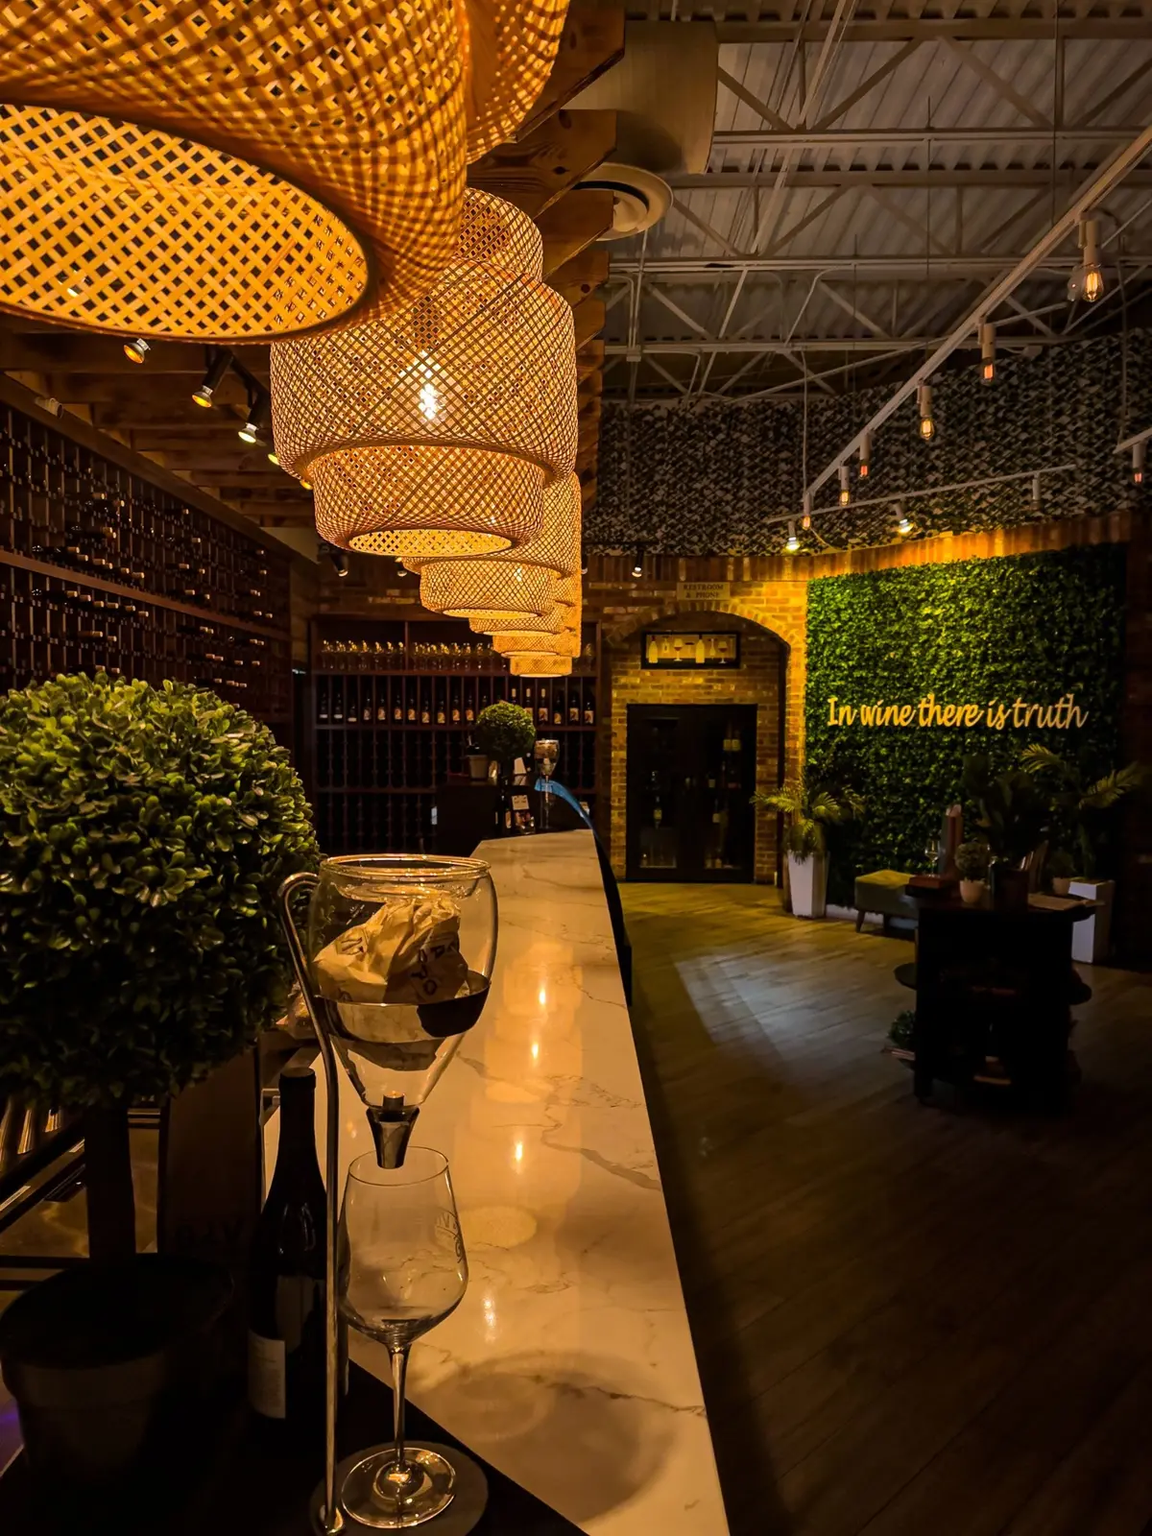
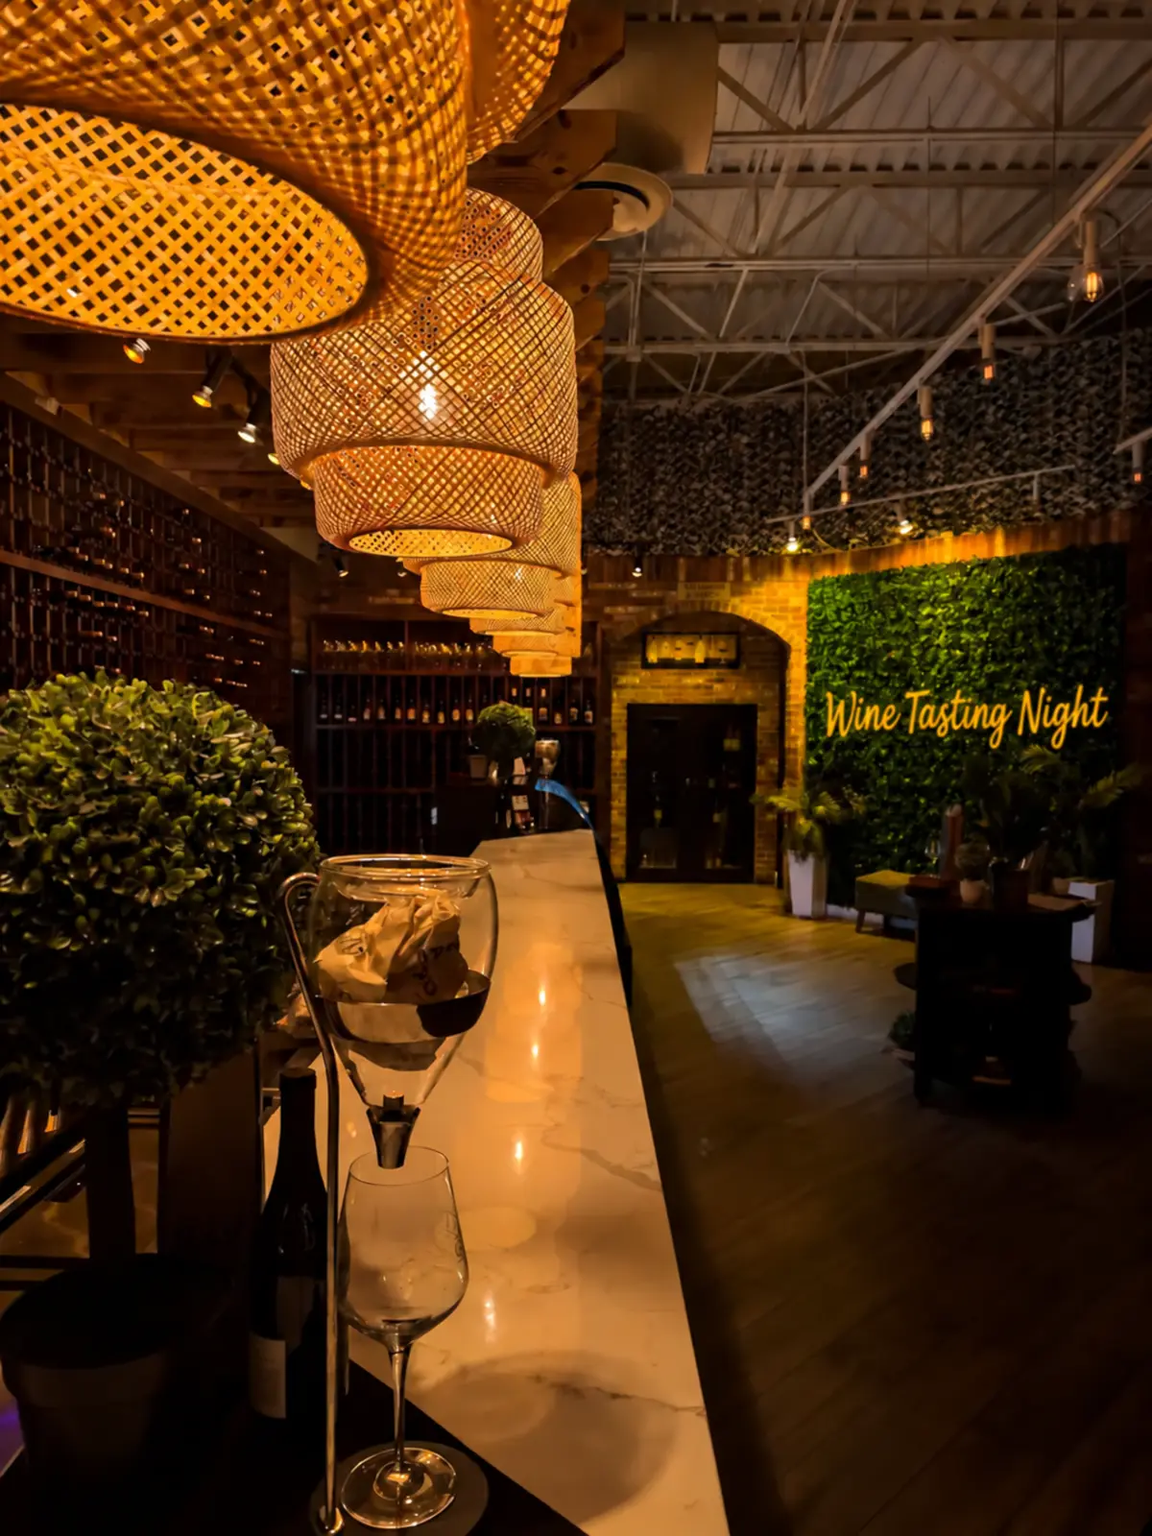
Add files via upload

diff --git a/index.html b/index.html
@@ -22,9 +22,13 @@
     html { scroll-behavior: smooth; }
     body { margin: 0; background: var(--cream); color: var(--green); font-family: var(--body); font-size: 17px; line-height: 1.7; }
     img { max-width: 100%; }
-    .brand-header { width: min(760px, calc(100% - 32px)); margin: 0 auto; padding: 24px 0 12px; text-align: center; }
+    .brand-header { position: relative; width: min(760px, calc(100% - 32px)); margin: 0 auto; padding: 24px 0 12px; text-align: center; }
     .logo { display: block; width: min(290px, 72vw); height: auto; margin: 0 auto; }
     .brand-description { margin: 6px 0 0; font-size: 12px; font-weight: 600; letter-spacing: .22em; text-transform: uppercase; }
+    .language-switcher { position: absolute; top: 30px; right: 0; display: flex; align-items: center; gap: 7px; font-size: 11px; font-weight: 600; letter-spacing: .12em; }
+    .language-switcher span { opacity: .45; }
+    .language-button { padding: 3px 1px; border: 0; border-bottom: 1px solid transparent; background: transparent; color: var(--green); font: inherit; cursor: pointer; opacity: .48; }
+    .language-button:hover, .language-button:focus-visible, .language-button.is-active { border-bottom-color: var(--green); opacity: 1; }
     .divider { display: flex; align-items: center; gap: 12px; width: min(760px, calc(100% - 40px)); margin: 0 auto; }
     .divider::before, .divider::after { content: ""; flex: 1; height: 1px; background: var(--green); opacity: .72; }
     .divider span { width: 8px; height: 8px; background: var(--green); transform: rotate(45deg); }
@@ -34,7 +38,7 @@
     .body-paragraph { max-width: 630px; margin: 0 0 19px; color: var(--green); font-family: var(--body); font-size: 1rem; font-weight: 400; line-height: 1.7; }
     .portrait-frame { position: relative; min-height: 100%; margin: 0; }
     .portrait-frame::after { content: ""; position: absolute; inset: 20px 0 0 20px; z-index: -1; border: 1px solid var(--green); }
-    .portrait { position: absolute; inset: 0 16px 16px 0; display: block; width: calc(100% - 16px); height: calc(100% - 16px); object-fit: cover; object-position: 48% center; }
+    .portrait { position: absolute; inset: 0 16px 16px 0; display: block; width: calc(100% - 16px); height: calc(100% - 16px); object-fit: cover; object-position: 28% center; }
     .portrait-caption { position: absolute; right: 16px; bottom: -24px; margin: 0; color: var(--green); font-size: 11px; font-weight: 600; letter-spacing: .08em; line-height: 1.4; text-align: right; text-transform: uppercase; }
     .motto { width: min(820px, 100%); margin: 0 auto; padding: 25px 20px; border-top: 1px solid var(--green); border-bottom: 1px solid var(--green); font-family: var(--heading); font-size: clamp(30px, 4vw, 45px); font-weight: 700; line-height: 1.15; text-align: center; }
     .services { padding: 110px 0 90px; }
@@ -68,7 +72,16 @@
     .event-copy .event-details { margin-bottom: 0; font-size: 12px; font-weight: 600; letter-spacing: .07em; text-transform: uppercase; }
     .book-button { display: inline-block; padding: 11px 18px; border: 1px solid var(--green); background: var(--green); color: var(--cream); font-size: 12px; font-weight: 600; letter-spacing: .1em; line-height: 1.2; text-decoration: none; text-transform: uppercase; transition: background .2s ease, color .2s ease; }
     .book-button:hover, .book-button:focus-visible { background: transparent; color: var(--green); }
+    .contact { margin-bottom: 90px; padding: clamp(42px, 6vw, 68px); background: var(--green-dark); color: var(--cream); }
+    .contact-label { margin: 0 0 22px; color: var(--cream); font-size: 12px; font-weight: 600; letter-spacing: .18em; text-transform: uppercase; opacity: .74; }
+    .contact-cta { display: inline-block; color: var(--cream); font-family: var(--body); font-size: clamp(37px, 4.2vw, 54px); font-weight: 600; letter-spacing: -.025em; line-height: 1; text-decoration: none; }
+    .contact-cta span { display: inline-block; transition: transform .2s ease; }
+    .contact-cta:hover span, .contact-cta:focus-visible span { transform: translate(6px, -4px); }
+    .contact-links { display: flex; flex-wrap: wrap; align-items: baseline; gap: 14px 34px; margin-top: 28px; }
+    .contact-links a { color: var(--cream); font-size: 14px; font-weight: 500; text-underline-offset: 5px; }
+    .contact-links a:first-child { font-size: 18px; }
     @media (max-width: 640px) {
+      .language-switcher { position: static; justify-content: center; margin-top: 10px; }
       .origin { grid-template-columns: 1fr; gap: 36px; padding-top: 54px; }
       .portrait-frame { width: min(560px, 100%); min-height: 0; margin: 0 auto; padding: 0 16px 16px 0; }
       .portrait { position: static; width: 100%; height: auto; aspect-ratio: 4 / 4.65; }
@@ -88,6 +101,8 @@
       .event-poster { width: 92px; height: 130px; flex-basis: 92px; }
       .event-copy { grid-template-columns: 1fr; gap: 17px; }
       .book-button { justify-self: start; }
+      .contact { margin-bottom: 54px; }
+      .contact-links { flex-direction: column; }
     }
     @media (max-width: 560px) {
       body { font-size: 16px; }
@@ -103,74 +118,194 @@
 <body>
   <header class="brand-header">
     <img class="logo" src="wineup-logo.png" alt="Wine Up">
-    <p class="brand-description">Curated wine experiences</p>
+    <p class="brand-description" data-i18n="brandDescription">Curated wine experiences</p>
+    <nav class="language-switcher" aria-label="Language selection">
+      <button class="language-button is-active" type="button" data-language="en" aria-pressed="true">EN</button>
+      <span aria-hidden="true">/</span>
+      <button class="language-button" type="button" data-language="it" aria-pressed="false">IT</button>
+    </nav>
   </header>
   <div class="divider" aria-hidden="true"><span></span></div>
   <main>
     <section class="origin" id="about">
       <div class="origin-copy">
-        <h1>About Wine Up</h1>
-        <p class="body-paragraph">Wine Up was born to break wine out of fine dining and put it where it truly comes alive: between people.</p>
-        <p class="body-paragraph">After years working in some of the world’s best restaurants across France, Northern Ireland and England, I wanted to create a wine experience that felt more open, more human and far less formal.</p>
-        <p class="body-paragraph">Every bottle has a personality, just like every person. Some are bright and easy-going; others are deeper, more complex and take time to understand. Discovering both is what Wine Up is all about.</p>
+        <h1 data-i18n="aboutTitle">About Wine Up</h1>
+        <p class="body-paragraph" data-i18n="aboutParagraph1">Wine Up was born to break wine out of fine dining and put it where it truly comes alive: between people.</p>
+        <p class="body-paragraph" data-i18n="aboutParagraph2">After years working in some of the world’s best restaurants across France, Northern Ireland and England, I wanted to create a wine experience that felt more open, more human and far less formal.</p>
+        <p class="body-paragraph" data-i18n="aboutParagraph3">Every bottle has a personality, just like every person. Some are bright and easy-going; others are deeper, more complex and take time to understand. Discovering both is what Wine Up is all about.</p>
       </div>
       <figure class="portrait-frame">
-        <img class="portrait" src="stefania-wine-up.webp" alt="Stefania Sanseverino, founder of Wine Up" width="1400" height="935">
-        <figcaption class="portrait-caption">Stefania Sanseverino · WSET Level 3 · Wine Up Creator</figcaption>
+        <img class="portrait" src="stefania-wine-up.webp" alt="Stefania Sanseverino, founder of Wine Up" data-i18n-alt="portraitAlt" width="977" height="890">
+        <figcaption class="portrait-caption" data-i18n="portraitCaption">Stefania Sanseverino · WSET Level 3 · Wine Up Creator</figcaption>
       </figure>
     </section>
-    <p class="motto">The best pairing is wine and people.</p>
+    <p class="motto" data-i18n="motto">The best pairing is wine and people.</p>
 
     <section class="services" id="services">
       <div class="services-intro">
-        <h2>Services</h2>
-        <p>Every Wine Up experience is shaped around your group, your occasion and your venue. New to wine? You’ll feel completely at ease. Already an enthusiast? You’ll find something new to explore. Expect carefully chosen wines, playful sensory games and plenty of ways to put your taste buds to the test.</p>
+        <h2 data-i18n="servicesTitle">Services</h2>
+        <p data-i18n="servicesIntro">Every Wine Up experience is shaped around your group, your occasion and your venue. New to wine? You’ll feel completely at ease. Already an enthusiast? You’ll find something new to explore. Expect carefully chosen wines, playful sensory games and plenty of ways to put your taste buds to the test.</p>
       </div>
 
       <div class="service-list">
         <article class="service-row">
           <div class="service-copy">
-            <span class="service-number">01 · At home or at your chosen venue</span>
-            <h3>Private Tastings</h3>
-            <p>Your home, a venue you love and a line-up created for your group. From birthdays and celebrations to an evening with friends, each tasting gives everyone space to get involved, explore the wines and decide what they genuinely enjoy. Complete beginners and experienced wine lovers are equally welcome.</p>
+            <span class="service-number" data-i18n="privateLabel">At home or at your chosen venue</span>
+            <h3 data-i18n="privateTitle">Private Tastings</h3>
+            <p data-i18n="privateCopy">Your home, a venue you love and a line-up created for your group. From birthdays and celebrations to an evening with friends, each tasting gives everyone space to get involved, explore the wines and decide what they genuinely enjoy. Complete beginners and experienced wine lovers are equally welcome.</p>
           </div>
-          <img class="service-image" src="private-tastings.webp" alt="A private wine tasting table at home with charcuterie and three wine glasses at each place" width="1400" height="933" loading="lazy">
+          <img class="service-image" src="private-tastings.webp" alt="A private wine tasting table at home with charcuterie and three wine glasses at each place" data-i18n-alt="privateAlt" width="1400" height="933" loading="lazy">
         </article>
 
         <article class="service-row reverse">
-          <img class="service-image" src="corporate-experiences.webp" alt="A professional wine tasting table prepared with rows of glasses and tasting notes" width="1600" height="1067" loading="lazy">
+          <img class="service-image" src="corporate-experiences.webp" alt="A professional wine tasting table prepared with rows of glasses and tasting notes" data-i18n-alt="corporateAlt" width="1600" height="1067" loading="lazy">
           <div class="service-copy">
-            <span class="service-number">At your office or chosen venue</span>
-            <h3>Corporate Experiences</h3>
-            <p>Wine Up creates tastings for team evenings, client events and professional networking, delivered at your office or a venue of your choice. The theme, wines and format are shaped around the people in the room and what you want the event to achieve.</p>
+            <span class="service-number" data-i18n="corporateLabel">At your office or chosen venue</span>
+            <h3 data-i18n="corporateTitle">Corporate Experiences</h3>
+            <p data-i18n="corporateCopy">Wine Up creates tastings for team evenings, client events and professional networking, delivered at your office or a venue of your choice. The theme, wines and format are shaped around the people in the room and what you want the event to achieve.</p>
           </div>
         </article>
 
         <article class="service-row wide">
-          <img class="service-image" src="venue-partnerships.webp" alt="A warm wine venue interior with illuminated lamps and a wall of bottles" width="1600" height="800" loading="lazy">
+          <img class="service-image" src="venue-partnerships.webp" alt="A warm wine venue interior with an illuminated Wine Tasting Night sign" data-i18n-alt="venueAlt" width="1200" height="1600" loading="lazy">
           <div class="service-copy">
-            <span class="service-number">03 · One-off or recurring</span>
-            <h3>Venue Partnerships</h3>
-            <p>For wine bars, hotels and private members’ clubs, a tasting can become a one-off event or a regular wine night. The place sets the mood; Wine Up builds the experience around it.</p>
+            <span class="service-number" data-i18n="venueLabel">One-off or recurring</span>
+            <h3 data-i18n="venueTitle">Venue Partnerships</h3>
+            <p data-i18n="venueCopy">For wine bars, hotels and private members’ clubs, a tasting can become a one-off event or a regular wine night. The place sets the mood; Wine Up builds the experience around it.</p>
           </div>
         </article>
       </div>
     </section>
 
     <section class="upcoming" id="events">
-      <h2>Upcoming Events</h2>
+      <h2 data-i18n="upcomingTitle">Upcoming Events</h2>
       <article class="event-strip">
-        <img class="event-poster" src="beyond-sauvignon-blanc-web.png" alt="Beyond Sauvignon Blanc event poster" width="106" height="150" loading="lazy">
+        <img class="event-poster" src="beyond-sauvignon-blanc-web.png" alt="Beyond Sauvignon Blanc event poster" data-i18n-alt="eventAlt" width="106" height="150" loading="lazy">
         <div class="event-copy">
           <div>
             <h3>Beyond Sauvignon Blanc</h3>
-            <p>Six vibrant whites and a special pairing menu by Stubby’s.</p>
-            <p class="event-details">15 September 2026 · 7pm · Stubby’s, Parsons Green · £40</p>
+            <p data-i18n="eventCopy">Six vibrant whites and a special pairing menu by Stubby’s.</p>
+            <p class="event-details" data-i18n="eventDetails">15 September 2026 · 7pm · Stubby’s, Parsons Green · £40</p>
           </div>
-          <a class="book-button" href="https://checkout.square.site/merchant/MLZSPPA3CY54X/checkout/CKHLHPHBFSNTNXLIETANJMHJ" target="_blank" rel="noopener">Book your place</a>
+          <a class="book-button" href="https://checkout.square.site/merchant/MLZSPPA3CY54X/checkout/CKHLHPHBFSNTNXLIETANJMHJ" target="_blank" rel="noopener" data-i18n="bookButton">Book your place</a>
         </div>
       </article>
     </section>
+
+    <section class="contact" id="contact">
+      <p class="contact-label" data-i18n="contactLabel">Contact</p>
+      <a class="contact-cta" href="mailto:stefania@wineup.uk?subject=Wine%20Up%20enquiry">Let’s make it happen <span aria-hidden="true">↗</span></a>
+      <div class="contact-links">
+        <a href="mailto:stefania@wineup.uk">stefania@wineup.uk</a>
+        <a href="https://www.instagram.com/wineup.uk/" target="_blank" rel="noopener noreferrer">Instagram · @wineup.uk</a>
+      </div>
+    </section>
   </main>
+  <script>
+    const translations = {
+      en: {
+        metaTitle: "Wine Up | Wine Experiences Built Around People",
+        metaDescription: "Wine Up creates welcoming wine experiences built around people.",
+        brandDescription: "Curated wine experiences",
+        aboutTitle: "About Wine Up",
+        aboutParagraph1: "Wine Up was born to break wine out of fine dining and put it where it truly comes alive: between people.",
+        aboutParagraph2: "After years working in some of the world’s best restaurants across France, Northern Ireland and England, I wanted to create a wine experience that felt more open, more human and far less formal.",
+        aboutParagraph3: "Every bottle has a personality, just like every person. Some are bright and easy-going; others are deeper, more complex and take time to understand. Discovering both is what Wine Up is all about.",
+        portraitAlt: "Stefania Sanseverino, founder of Wine Up",
+        portraitCaption: "Stefania Sanseverino · WSET Level 3 · Wine Up Creator",
+        motto: "The best pairing is wine and people.",
+        servicesTitle: "Services",
+        servicesIntro: "Every Wine Up experience is shaped around your group, your occasion and your venue. New to wine? You’ll feel completely at ease. Already an enthusiast? You’ll find something new to explore. Expect carefully chosen wines, playful sensory games and plenty of ways to put your taste buds to the test.",
+        privateLabel: "At home or at your chosen venue",
+        privateTitle: "Private Tastings",
+        privateCopy: "Your home, a venue you love and a line-up created for your group. From birthdays and celebrations to an evening with friends, each tasting gives everyone space to get involved, explore the wines and decide what they genuinely enjoy. Complete beginners and experienced wine lovers are equally welcome.",
+        privateAlt: "A private wine tasting table at home with charcuterie and three wine glasses at each place",
+        corporateLabel: "At your office or chosen venue",
+        corporateTitle: "Corporate Experiences",
+        corporateCopy: "Wine Up creates tastings for team evenings, client events and professional networking, delivered at your office or a venue of your choice. The theme, wines and format are shaped around the people in the room and what you want the event to achieve.",
+        corporateAlt: "A professional wine tasting table prepared with rows of glasses and tasting notes",
+        venueLabel: "One-off or recurring",
+        venueTitle: "Venue Partnerships",
+        venueCopy: "For wine bars, hotels and private members’ clubs, a tasting can become a one-off event or a regular wine night. The place sets the mood; Wine Up builds the experience around it.",
+        venueAlt: "A warm wine venue interior with an illuminated Wine Tasting Night sign",
+        upcomingTitle: "Upcoming Events",
+        eventAlt: "Beyond Sauvignon Blanc event poster",
+        eventCopy: "Six vibrant whites and a special pairing menu by Stubby’s.",
+        eventDetails: "15 September 2026 · 7pm · Stubby’s, Parsons Green · £40",
+        bookButton: "Book your place",
+        contactLabel: "Contact"
+      },
+      it: {
+        metaTitle: "Wine Up | Esperienze di vino costruite intorno alle persone",
+        metaDescription: "Wine Up crea esperienze di vino accoglienti, costruite intorno alle persone.",
+        brandDescription: "Esperienze di vino su misura",
+        aboutTitle: "Come nasce Wine Up",
+        aboutParagraph1: "Wine Up nasce per portare il vino fuori dall’alta ristorazione e riportarlo dove prende davvero vita: tra le persone.",
+        aboutParagraph2: "Dopo anni trascorsi in alcuni dei migliori ristoranti al mondo, tra Francia, Irlanda del Nord e Inghilterra, ho voluto creare un’esperienza del vino più aperta, più umana e molto meno formale.",
+        aboutParagraph3: "Ogni bottiglia ha una personalità, proprio come ogni persona. Alcune sono vivaci e immediate; altre più profonde, complesse e richiedono tempo per essere comprese. Wine Up nasce dal piacere di scoprirle entrambe.",
+        portraitAlt: "Stefania Sanseverino, fondatrice di Wine Up",
+        portraitCaption: "Stefania Sanseverino · WSET Level 3 · Creatrice di Wine Up",
+        motto: "L’abbinamento migliore? Vino e persone.",
+        servicesTitle: "Servizi",
+        servicesIntro: "Ogni esperienza Wine Up viene costruita intorno al tuo gruppo, all’occasione e alla location. Se il vino è una novità, ti sentirai subito a tuo agio. Se sei già un appassionato, troverai qualcosa di nuovo da esplorare. Aspettati vini scelti con cura, giochi sensoriali e tanti modi per mettere alla prova il tuo palato.",
+        privateLabel: "A casa o nella location che preferisci",
+        privateTitle: "Degustazioni private",
+        privateCopy: "A casa tua, in una location che ami, con una selezione creata per il tuo gruppo. Dai compleanni e le occasioni speciali a una serata tra amici, ogni degustazione lascia a tutti lo spazio per partecipare, esplorare i vini e capire cosa piace davvero. Principianti assoluti e wine lover esperti sono ugualmente benvenuti.",
+        privateAlt: "Tavola preparata per una degustazione privata con salumi e tre calici per ogni ospite",
+        corporateLabel: "Nel tuo ufficio o nella location che preferisci",
+        corporateTitle: "Esperienze aziendali",
+        corporateCopy: "Wine Up crea degustazioni per serate di team, eventi con i clienti e networking professionale, nel tuo ufficio o in una location a tua scelta. Tema, vini e formato vengono definiti intorno alle persone presenti e all’obiettivo dell’evento.",
+        corporateAlt: "Tavola professionale preparata per una degustazione con file di calici e schede di assaggio",
+        venueLabel: "Evento unico o appuntamento ricorrente",
+        venueTitle: "Collaborazioni con location",
+        venueCopy: "Per wine bar, hotel e club privati, una degustazione può diventare un evento speciale o un appuntamento ricorrente. La location crea l’atmosfera; Wine Up costruisce l’esperienza intorno ad essa.",
+        venueAlt: "Interno accogliente di una wine venue con la scritta luminosa Wine Tasting Night",
+        upcomingTitle: "Prossimi eventi",
+        eventAlt: "Locandina dell’evento Beyond Sauvignon Blanc",
+        eventCopy: "Sei vini bianchi vibranti e uno speciale menu in abbinamento firmato Stubby’s.",
+        eventDetails: "15 settembre 2026 · ore 19 · Stubby’s, Parsons Green · £40",
+        bookButton: "Prenota il tuo posto",
+        contactLabel: "Contatti"
+      }
+    };
+
+    const languageButtons = document.querySelectorAll("[data-language]");
+    const descriptionMeta = document.querySelector('meta[name="description"]');
+
+    function setLanguage(language) {
+      const selectedLanguage = translations[language] ? language : "en";
+      const copy = translations[selectedLanguage];
+
+      document.documentElement.lang = selectedLanguage;
+      document.title = copy.metaTitle;
+      descriptionMeta.setAttribute("content", copy.metaDescription);
+
+      document.querySelectorAll("[data-i18n]").forEach((element) => {
+        const key = element.dataset.i18n;
+        if (copy[key]) element.textContent = copy[key];
+      });
+
+      document.querySelectorAll("[data-i18n-alt]").forEach((element) => {
+        const key = element.dataset.i18nAlt;
+        if (copy[key]) element.alt = copy[key];
+      });
+
+      languageButtons.forEach((button) => {
+        const isActive = button.dataset.language === selectedLanguage;
+        button.classList.toggle("is-active", isActive);
+        button.setAttribute("aria-pressed", String(isActive));
+      });
+
+      localStorage.setItem("wineup-language", selectedLanguage);
+    }
+
+    languageButtons.forEach((button) => {
+      button.addEventListener("click", () => setLanguage(button.dataset.language));
+    });
+
+    const savedLanguage = localStorage.getItem("wineup-language");
+    const initialLanguage = savedLanguage || (navigator.language.toLowerCase().startsWith("it") ? "it" : "en");
+    setLanguage(initialLanguage);
+  </script>
 </body>
 </html>
